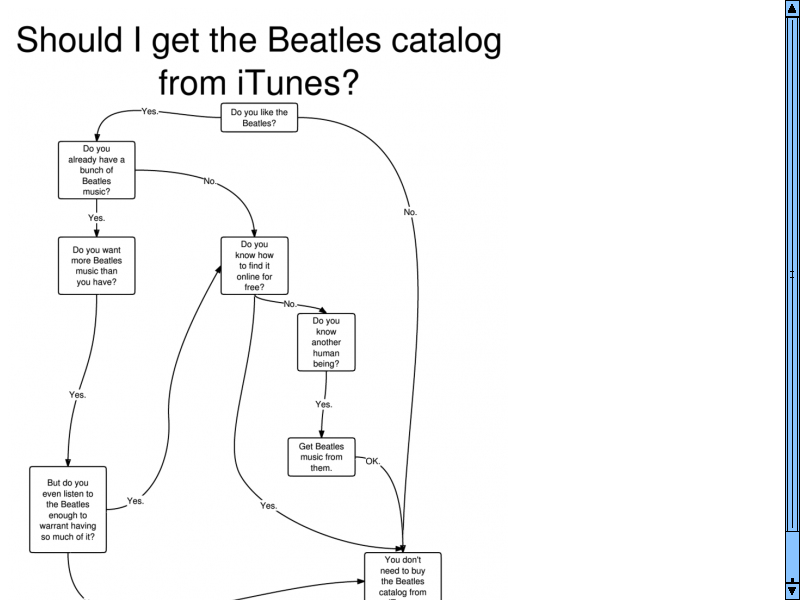
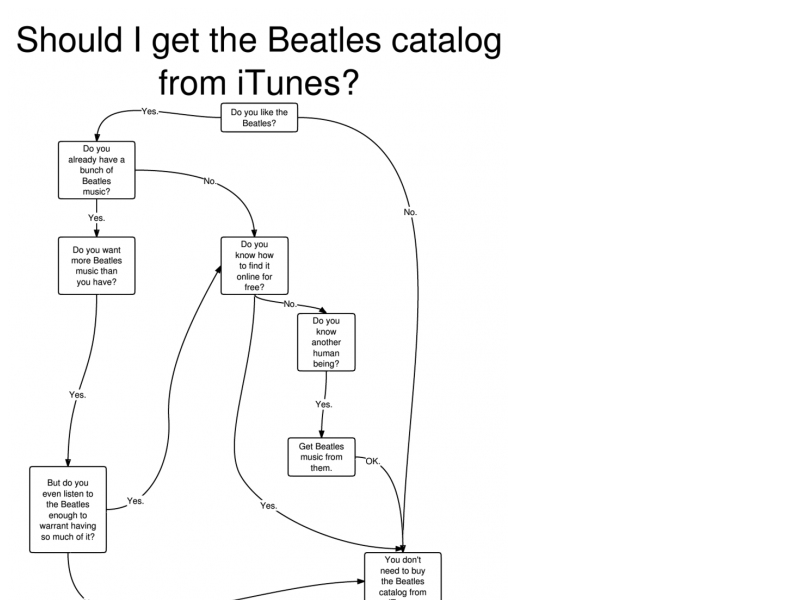
Remove the scrollbar from fast/images/gray-scale-jpeg-with-color-profile
This test is just an image that happens to be larger than the viewport,
it doesn't need to test the pixel results of a scrollbar.

R=enne@chromium.org
BUG=364946

Review URL: https://codereview.chromium.org/248003002

git-svn-id: svn://svn.chromium.org/blink/trunk@172286 bbb929c8-8fbe-4397-9dbb-9b2b20218538

Changed region(s): [[0.9688, 0.0, 1.0, 1.0]]

diff --git a/LayoutTests/fast/images/gray-scale-jpeg-with-color-profile.html b/LayoutTests/fast/images/gray-scale-jpeg-with-color-profile.html
@@ -1,1 +1,5 @@
-<img src="resources/flowchart.jpg">
+<html>
+  <body style="overflow:hidden">
+    <img src="resources/flowchart.jpg">
+  </body>
+</html>
